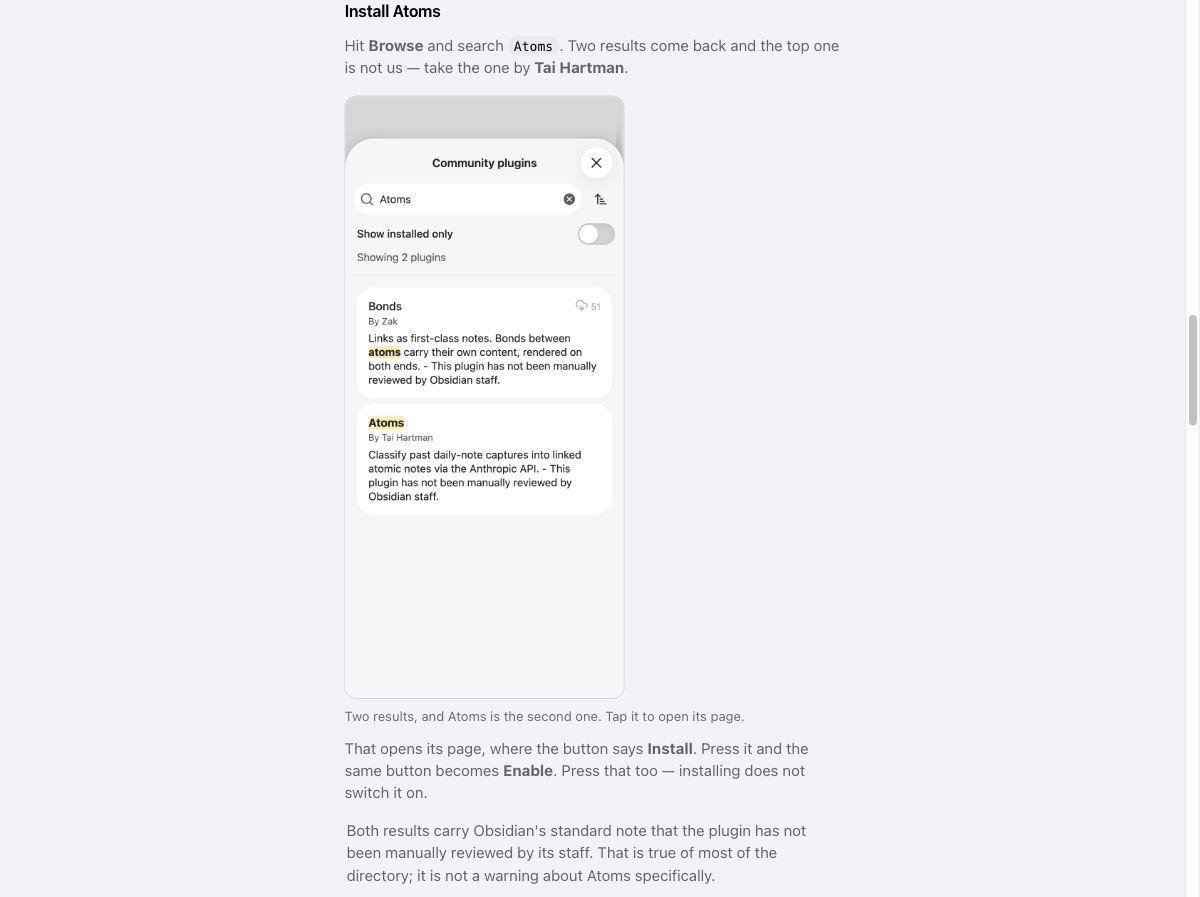
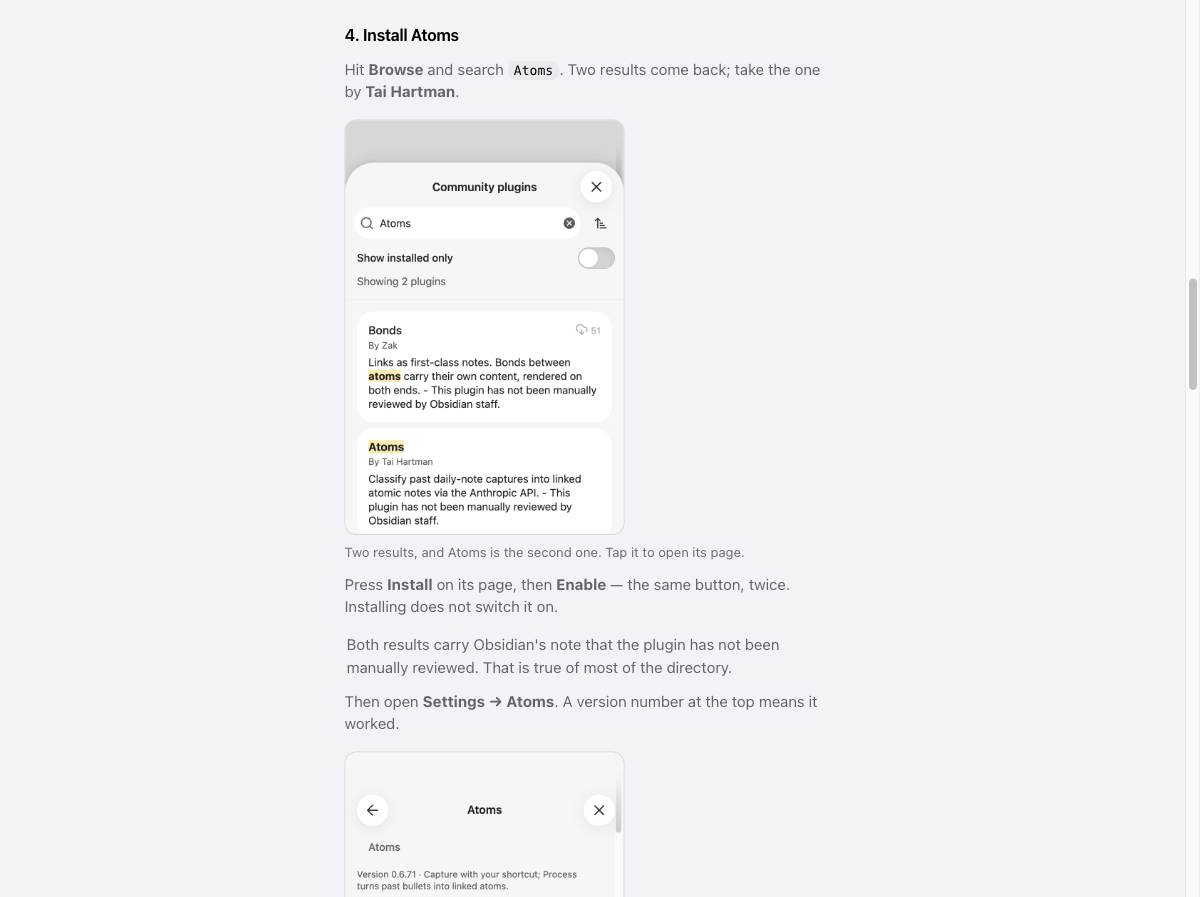
chore(status): clear #299 for merge

diff --git a/STATUS.md b/STATUS.md
@@ -7,7 +7,6 @@ Process: [`docs/collab.md`](docs/collab.md) · Issues/PRs on GitHub.
 
 | State | Issue | Owner | Branch | Plan | Hot files | Notes |
 |---|---|---|---|---|---|---|
-| In review | [#299](https://github.com/taihartman/obsidian-atoms/issues/299) | taihartman | `feat/setup-community-install` | light lane (no plan doc) | `www/src/setup.html.tmpl`, `www/build.mjs`, `test/wwwPricing.test.ts` | De-BRAT `/setup` now that Atoms is in the community directory, and show readers how to actually open Atoms. Two BRAT screenshots die — they must come out of `SETUP_SHOTS` *and* the template together, or the ships-what-it-references test fails |
 | In review | [#294](https://github.com/taihartman/obsidian-atoms/issues/294) | taihartman | `fix/capture-shortcut-link-optional` | amend lane (no plan doc) | `src/settings/captureShortcut.ts`, `src/settings/settings.ts`, `src/home/atomsHomeView.ts` | Custom shortcut link is optional; every shipped built-in URL now un-pins. **Prepend, never append**, to `BUILTIN_INSTALL_URLS` when the link moves — the constant is its head |
 
 ## How to claim (copy)
@@ -24,6 +23,7 @@ States: `Queued` · `In progress` · `Blocked` · `In review` · `Done` (then re
 
 | Merged | Issue / PR | Summary |
 |---|---|---|
+| 2026-08-05 | #299 / #300 | `/setup` installs from the community directory, not BRAT; adds the Open Atoms step; guide tightened 1582→1332 words (www-only, no plugin bump) |
 | 2026-08-05 | #288 / #289 | Library tap=vault; long-press Continue · **0.6.73** |
 | 2026-08-05 | #280 #282 / #281 | One "Atoms Plus is ready" notice per checkout, not one per in-flight poll; resume listeners tied to the plugin lifecycle · **0.6.72**. **#241 must land on top of this** — widening the poll window without the atomic announce is #280 again |
 | 2026-08-05 | #277 / #278 | `/setup` from-zero guide (install · iOS capture · Ask); landing `#install` shrinks to a pointer. **Follow-up: screenshots need recapturing on desktop dark — the shipped ones are poor** |
